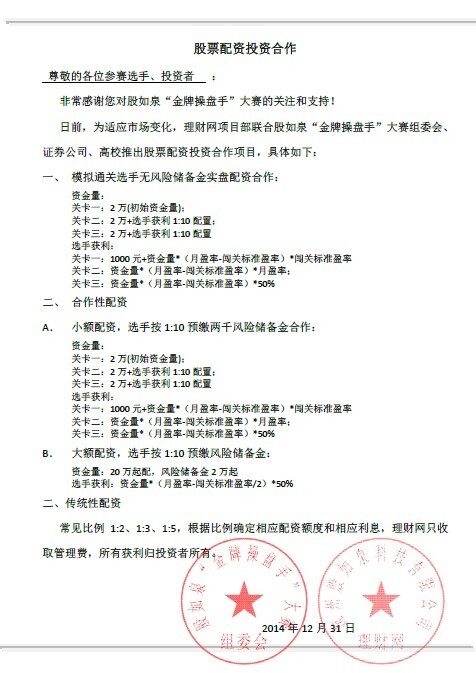
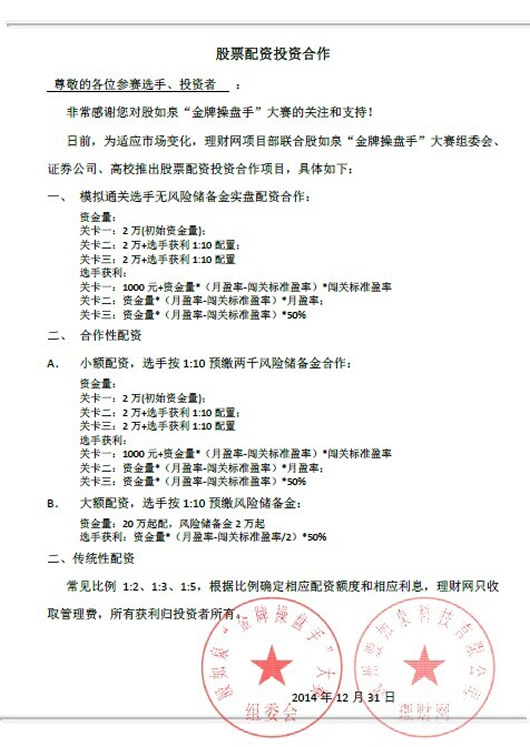
合作图片
合作图片

diff --git a/gp/index.html b/gp/index.html
@@ -466,7 +466,7 @@
         <!-- 股票合作@结束 -->
         <!-- 股票合作项目 -->
         <div class="center">
-        <img src="images/stockInvest/hezuo.jpg" width="476" height="673">
+        <img src="images/stockInvest/hezuo.jpg" width="530" height="747">
         </div>
     </div>
 </div>
